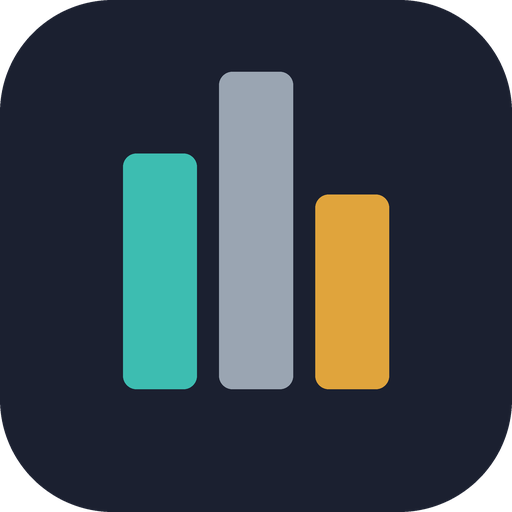
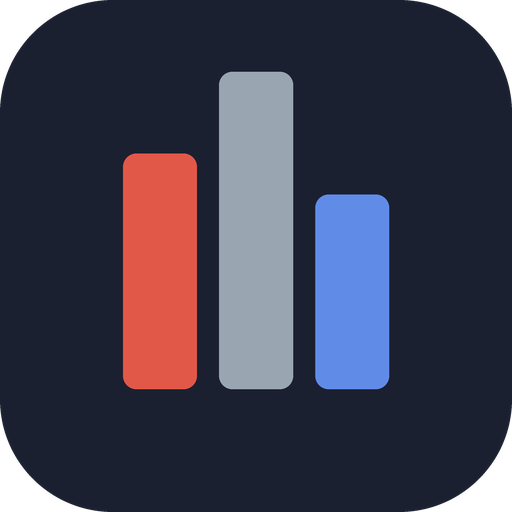
Esquerda em vermelho, direita em azul; disputa em laranja
Claude-Session: https://claude.ai/code/session_01PHx8yTDfSUJcvKyQFaKnCX

Changed region(s): [[0.2188, 0.2812, 0.4062, 0.7812], [0.5938, 0.375, 0.7812, 0.7812]]

diff --git a/index.html b/index.html
@@ -18,24 +18,24 @@
 <link rel="preconnect" href="https://fonts.gstatic.com" crossorigin>
 <link rel="stylesheet" href="https://fonts.googleapis.com/css2?family=Hanken+Grotesk:wght@400;500;600;700&family=Newsreader:ital,opsz,wght@0,6..72,400;0,6..72,500;0,6..72,600;0,6..72,700;1,6..72,400&display=swap">
 <style>
-/* Feed de cartões com barra de espectro; matéria em blocos fixos (Fatos, Inferências, Em disputa...). Cores de viés fora do eixo azul/vermelho partidário. */
+/* Feed de cartões com barra de espectro; matéria em blocos fixos (Fatos, Inferências, Em disputa...). Esquerda em vermelho, direita em azul; disputa em laranja para não confundir com a esquerda. */
 :root{
-  --bg:#F3F4EF; --card:#FBFBF8; --ink:#1B2030; --muted:#5E6371; --line:#D8DACF; --acc:#21386A; --acc-ink:#FFFFFF; --soft:#E7E9E1;
-  --L:#14857C; --C:#7B8693; --R:#B97A12; --X:#6656B8;
-  --ok:#2C7A4B; --inf:#8A6D12; --bad:#B23C35;
+  --bg:#F3F4EF; --card:#FBFBF8; --ink:#1B2030; --muted:#5E6371; --line:#D8DACF; --acc:#1F5C55; --acc-ink:#FFFFFF; --soft:#E7E9E1;
+  --L:#C0392B; --C:#7B8693; --R:#2F5FB3; --X:#7A4FB0;
+  --ok:#2C7A4B; --inf:#8A6D12; --bad:#B4530A;
   --f-d:"Newsreader",Georgia,"Times New Roman",serif;
   --f-b:"Hanken Grotesk",system-ui,-apple-system,"Segoe UI",Roboto,sans-serif;
   --top:env(safe-area-inset-top,0px); --bot:env(safe-area-inset-bottom,0px);
   color-scheme:light;
 }
 @media (prefers-color-scheme: dark){:root:not([data-theme="light"]){
-  --bg:#16181D; --card:#1D2027; --ink:#ECEDF0; --muted:#A0A4AE; --line:#30343C; --acc:#9DB4E8; --acc-ink:#11141A; --soft:#252932;
-  --L:#3DBDB1; --C:#9AA5B2; --R:#E0A43C; --X:#9C8EEA;
-  --ok:#5CC48A; --inf:#D9B44E; --bad:#EC7A72; color-scheme:dark}}
+  --bg:#16181D; --card:#1D2027; --ink:#ECEDF0; --muted:#A0A4AE; --line:#30343C; --acc:#7FD0C3; --acc-ink:#10201D; --soft:#252932;
+  --L:#F0705F; --C:#9AA5B2; --R:#6E9BEF; --X:#B394EE;
+  --ok:#5CC48A; --inf:#D9B44E; --bad:#F29A4A; color-scheme:dark}}
 :root[data-theme="dark"]{
-  --bg:#16181D; --card:#1D2027; --ink:#ECEDF0; --muted:#A0A4AE; --line:#30343C; --acc:#9DB4E8; --acc-ink:#11141A; --soft:#252932;
-  --L:#3DBDB1; --C:#9AA5B2; --R:#E0A43C; --X:#9C8EEA;
-  --ok:#5CC48A; --inf:#D9B44E; --bad:#EC7A72; color-scheme:dark}
+  --bg:#16181D; --card:#1D2027; --ink:#ECEDF0; --muted:#A0A4AE; --line:#30343C; --acc:#7FD0C3; --acc-ink:#10201D; --soft:#252932;
+  --L:#F0705F; --C:#9AA5B2; --R:#6E9BEF; --X:#B394EE;
+  --ok:#5CC48A; --inf:#D9B44E; --bad:#F29A4A; color-scheme:dark}
 *,*::before,*::after{box-sizing:border-box}
 html{-webkit-text-size-adjust:100%}
 body{margin:0;background:var(--bg);color:var(--ink);font:16px/1.5 var(--f-b);-webkit-font-smoothing:antialiased;padding-bottom:var(--bot)}

diff --git a/sw.js b/sw.js
@@ -1,5 +1,5 @@
 // Shell em cache para abrir offline; dados sempre tentam a rede primeiro.
-const VERSAO = "nr-v1";
+const VERSAO = "nr-v2";
 const SHELL = ["./", "index.html", "manifest.webmanifest", "icons/icon-192.png", "icons/apple-touch-icon.png", "data/fontes.json"];
 
 self.addEventListener("install", e => {
